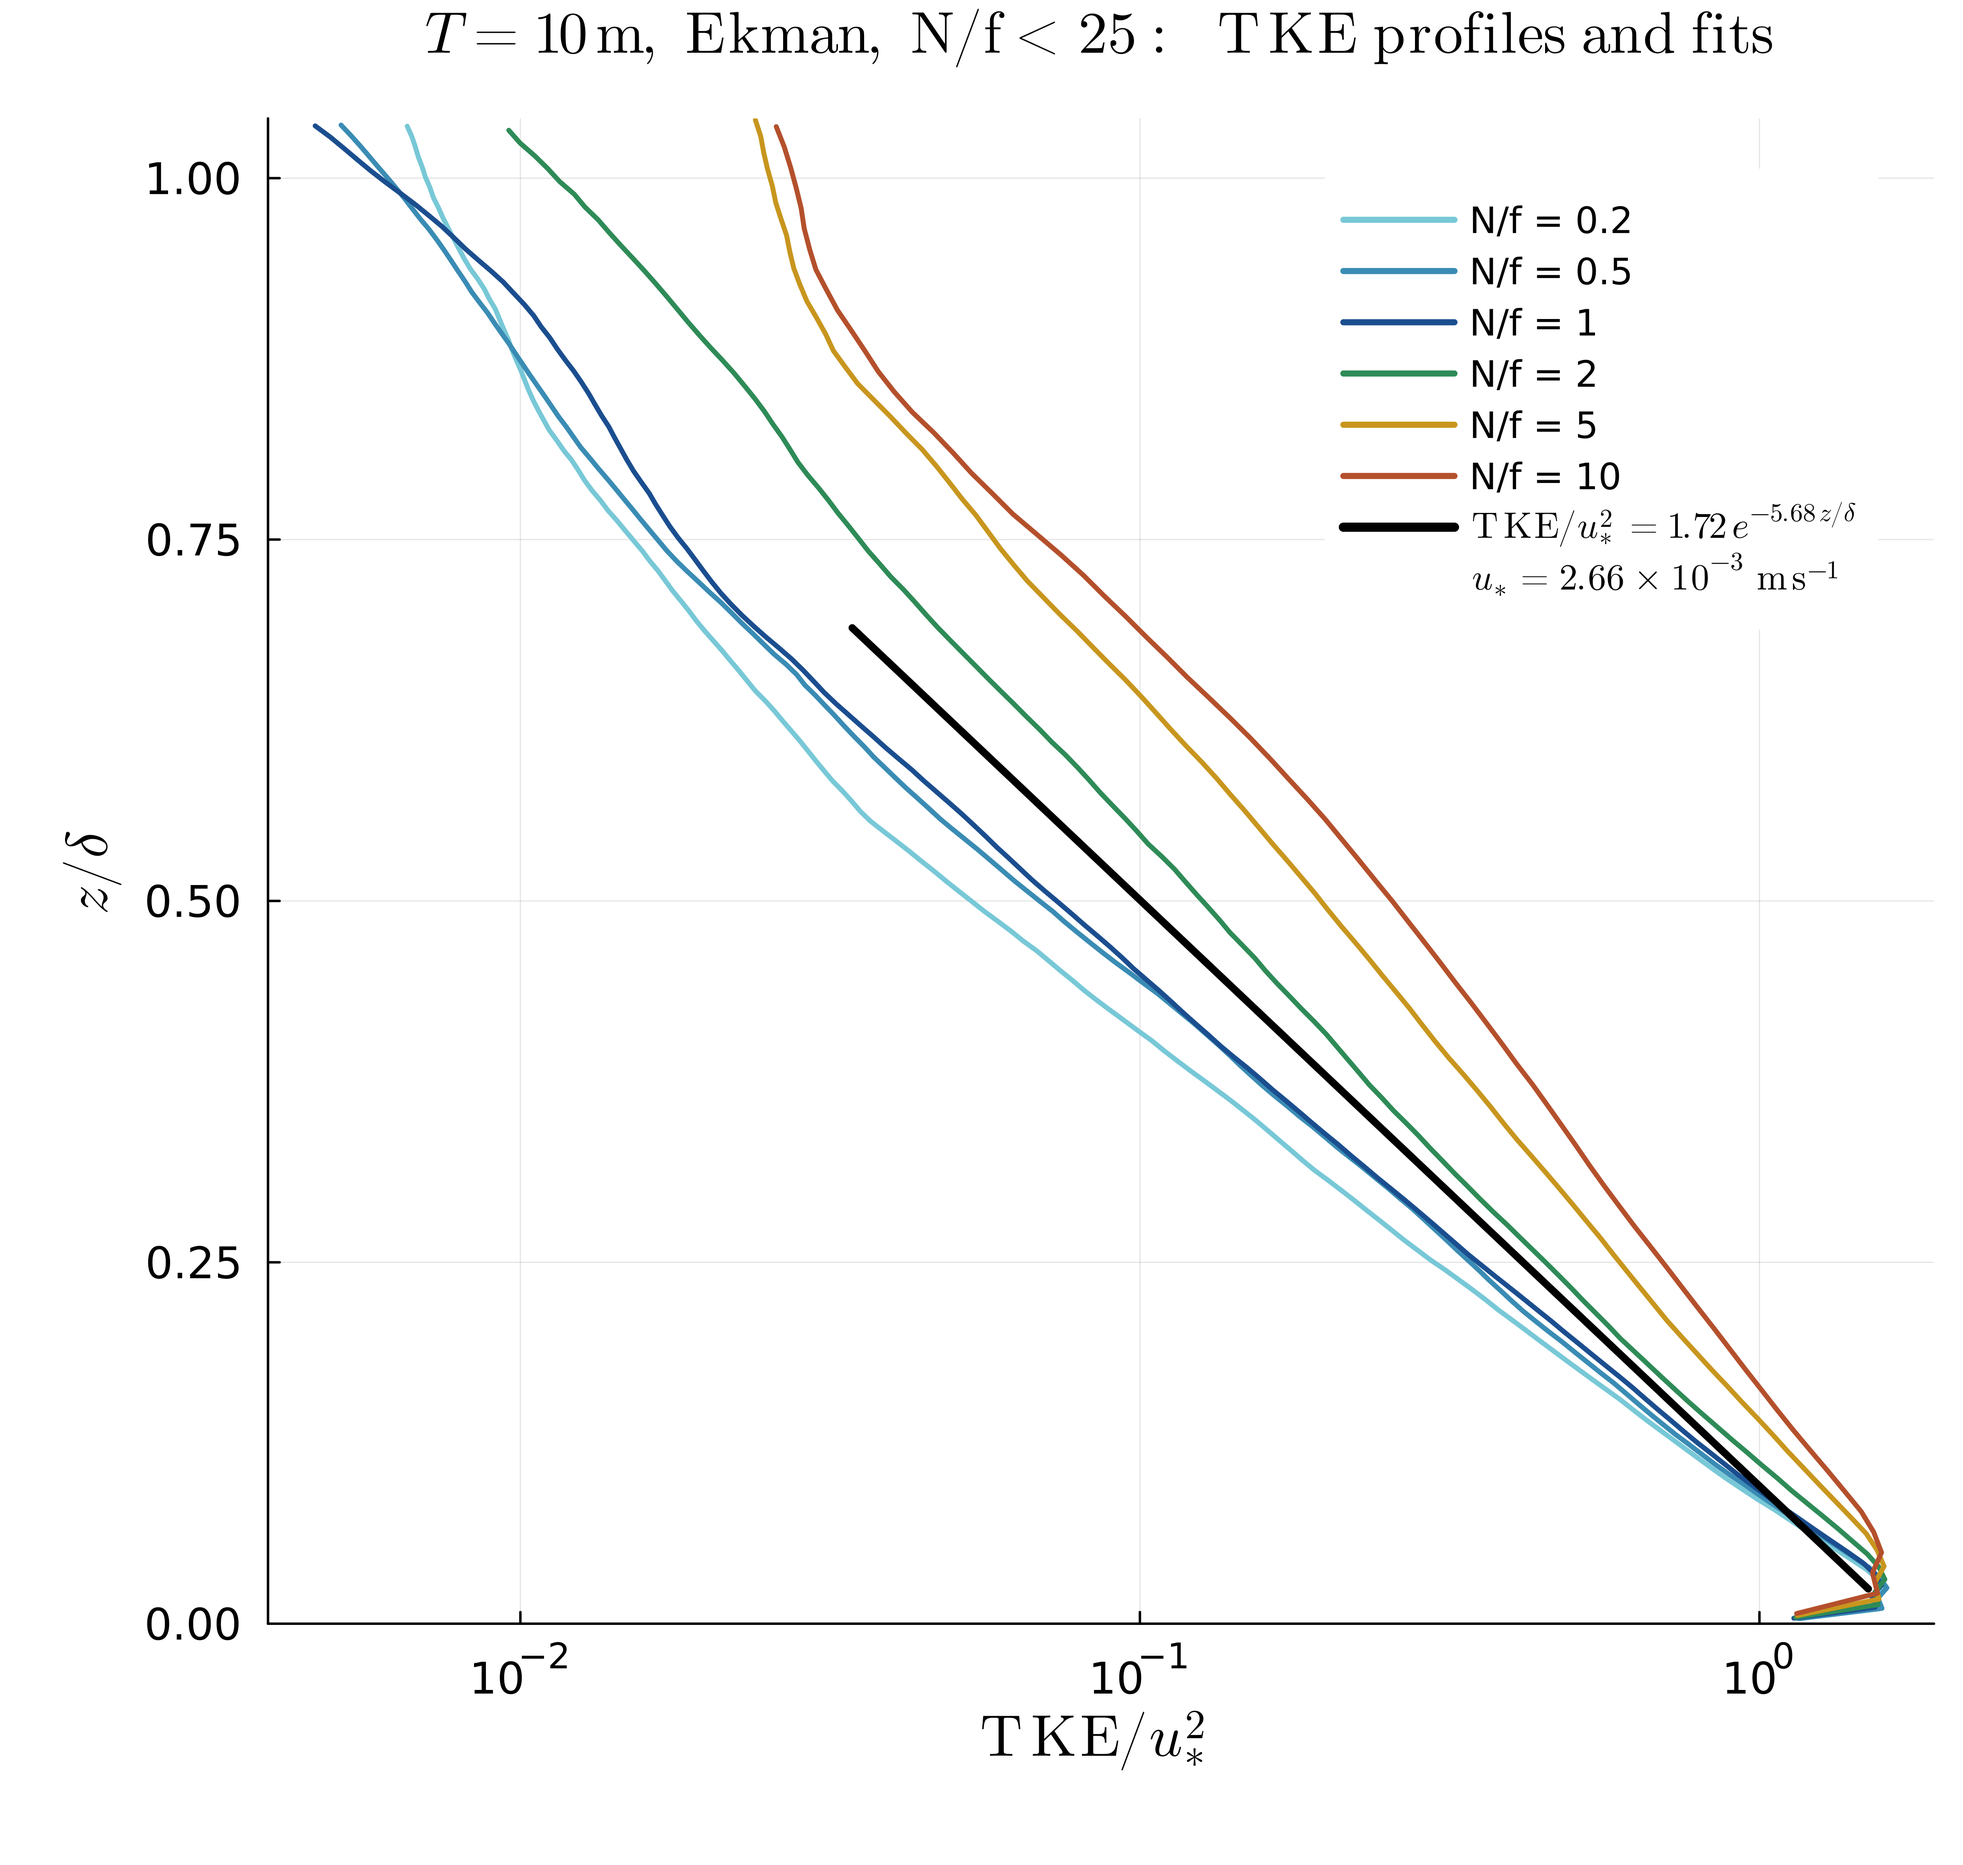
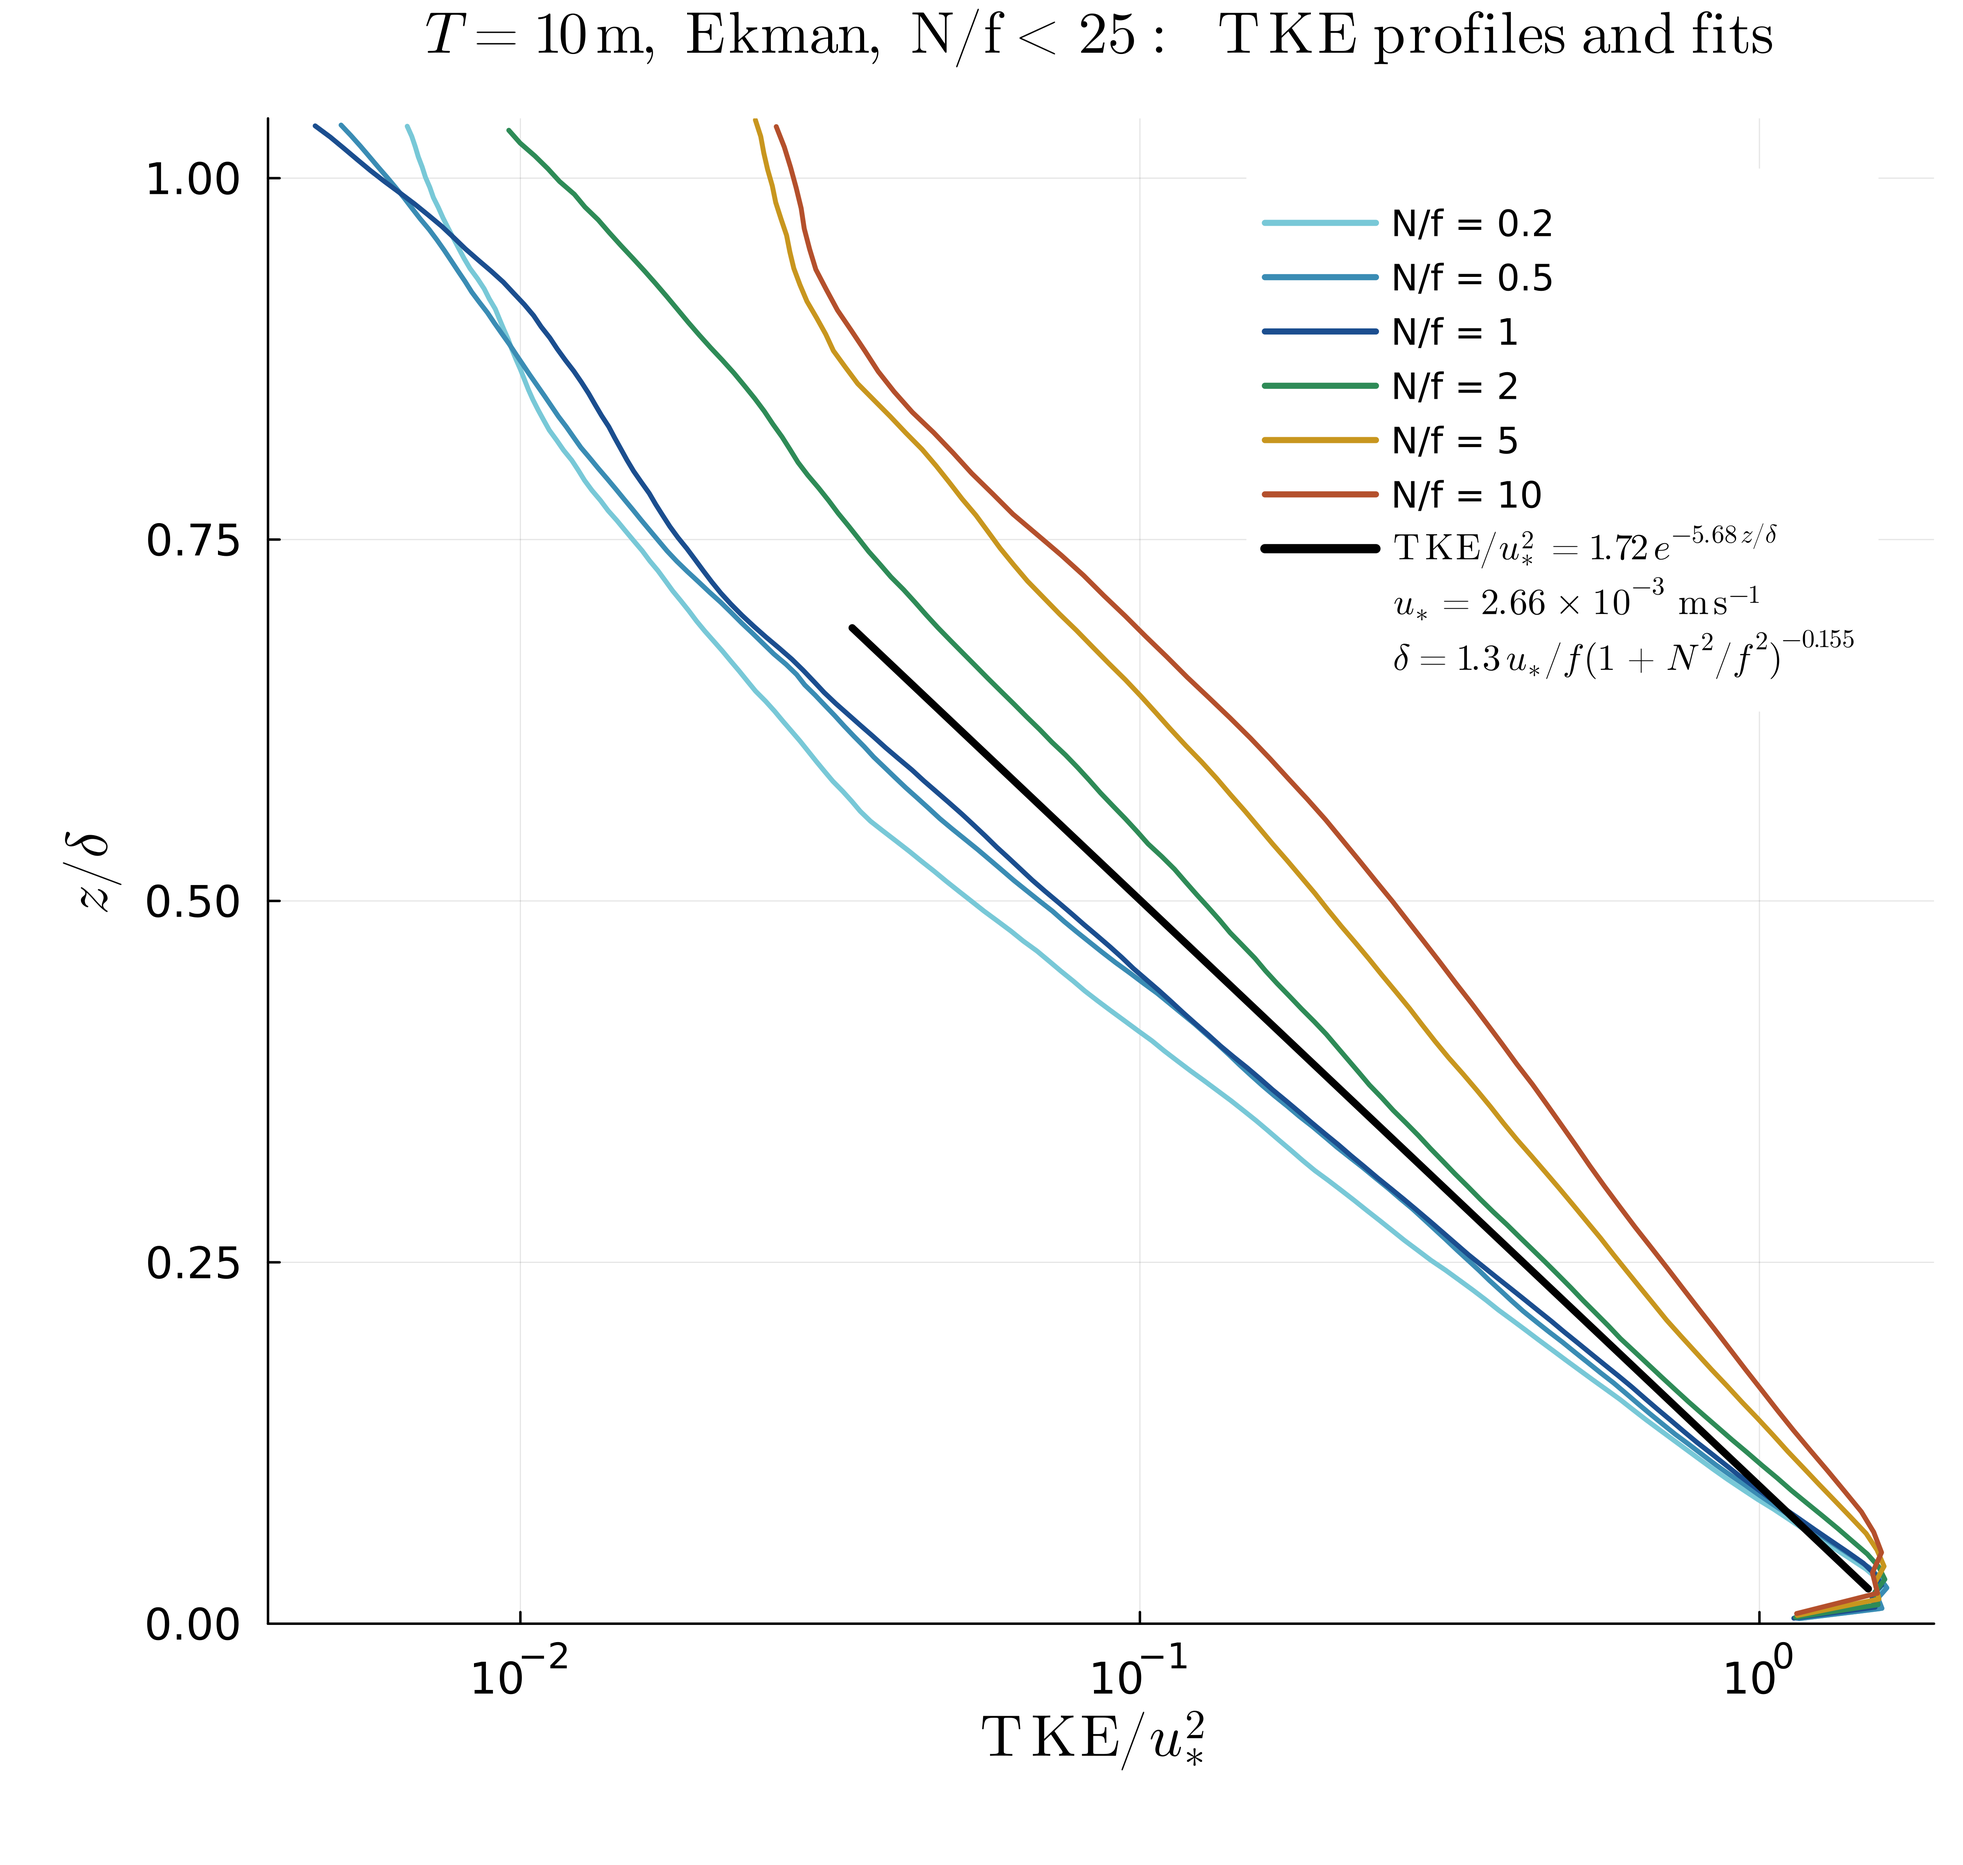
tke plot with delta

Changed region(s): [[0.6562, 0.0934, 0.9062, 0.3425]]

diff --git a/Combined/README.md b/Combined/README.md
@@ -1028,7 +1028,9 @@ line per flow (the layer-top dots were drawn briefly and removed on request): ev
 from its TKE peak to `z = h` pooled into a single least-squares fit of
 `log(TKE/u_*²)` against `z/δ`. The legend shows the equation and the flow's
 measured `u_*` (median over cases: 1.11×10⁻³ m/s Stokes, 2.66×10⁻³ m/s Ekman
-`r` < 25 — each flat to ~2 % across its cases, range in the log); the rms is in
+`r` < 25 — each flat to ~2 % across its cases, range in the log) and the δ
+used, `0.4 u_*/ω (1+N²/ω²)^(−0.020)` and `1.3 u_*/f (1+N²/f²)^(−0.155)` (stage 1;
+`p` read from `delta_T10.jld2`). The rms is in
 `logs/plot_tke_fits_T10.log`.
 
 **Why `z/δ` and not `z/h`** (changed 2026-10-09). For the growth law

diff --git a/Combined/HANDOVER.md b/Combined/HANDOVER.md
@@ -179,7 +179,8 @@ A1 u_*^2 e^(-A2 h/delta) depends on h — in z/h it is a constant. Stokes
 GOTCHA for the growth closure: the measured Stokes TKE(h) sits well BELOW the
 exponential at high N (profile rolls off under h), so the fit overestimates
 TKE(h) there (no longer marked on the figure). Each legend also gives the
-median u_* (Stokes 1.11e-3, Ekman 2.66e-3 m/s). Ekman's decay rate depends on
+median u_* (Stokes 1.11e-3, Ekman 2.66e-3 m/s) and the delta formula
+(0.4 u_*/ω (1+N²/ω²)^-0.020; 1.3 u_*/f (1+N²/f²)^-0.155). Ekman's decay rate depends on
 r in either scaling.
 
 2026-10-09: KTstar_vs_Ri_stokes_T10.png and ..._zscan_ekman_lowr_T10.png
